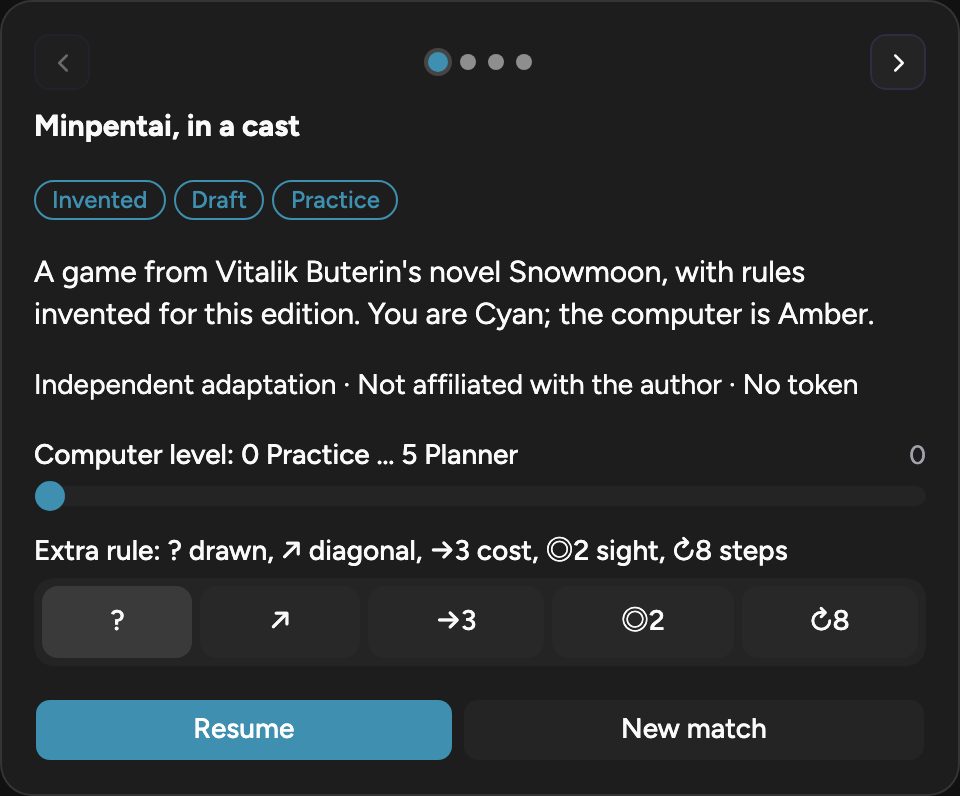
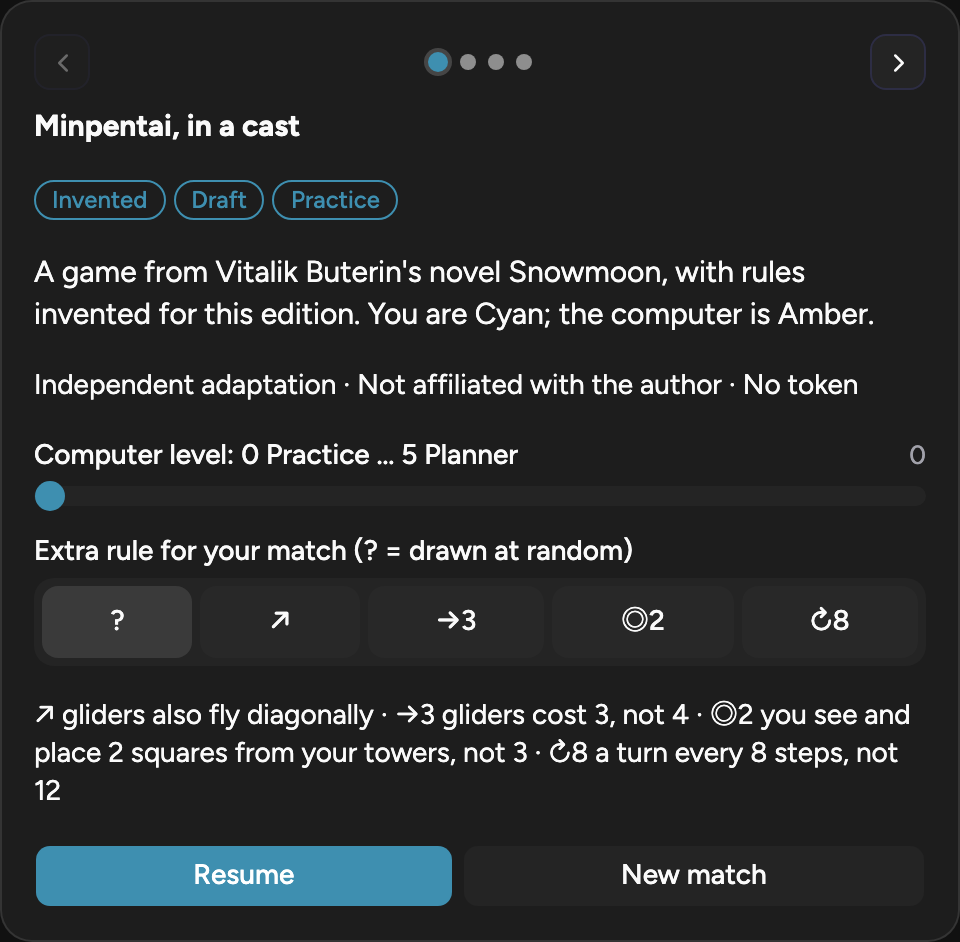
Minpentai snap: a key under the extra-rule picker says what each option does; clearer label (owner's phone test, 2026-10-22)

diff --git a/src/lib/minpentai/snap/pages.ts b/src/lib/minpentai/snap/pages.ts
@@ -31,6 +31,7 @@ export { LEVELS };
  * 8 characters in all. `?` is the drawn rule. Its label spells them out; the turn screen then names
  * the rule in full. */
 export const RULE_PICKS: [string, RuleId | ''][] = [['?', ''], ['↗', 'diag'], ['→3', 'cost3'], ['◎2', 'sight2'], ['↻8', 'every8']];
+const RULE_KEY = '↗ gliders also fly diagonally · →3 gliders cost 3, not 4 · ◎2 you see 2 squares around your towers, not 3 · ↻8 a turn every 8 steps, not 12';
 
 /** Where the snap is served, and query parameters every link must keep (a preview's bypass). */
 export interface Here { base: string; keep: [string, string][] }
@@ -131,7 +132,12 @@ export function intro(h: Here, ver: string, resume: 'yes' | 'no' | 'maybe' = 'ma
   els.level = { type: 'slider', props: { name: 'lvl', min: 0, max: 5, step: 1, defaultValue: 0, showValue: true, label: 'Computer level: 0 Practice … 5 Planner' } };
   // The extra rule (owner, 2026-10-22): drawn, or one of Play's four. A version that fixes one has no picker.
   const picker = !v?.rule;
-  if (picker) els.rule = { type: 'toggle_group', props: { name: 'rule', label: 'Extra rule: ? drawn, ↗ diagonal, →3 cost, ◎2 sight, ↻8 steps', options: RULE_PICKS.map(([g]) => g), defaultValue: '?' } };
+  // A snap can't explain an option when it is tapped, so a key under the picker says what each does
+  // (owner's phone test, 2026-10-22: "it wasn't clear what that bottom area was").
+  if (picker) {
+    els.rule = { type: 'toggle_group', props: { name: 'rule', label: 'Extra rule for your match (? = drawn at random)', options: RULE_PICKS.map(([g]) => g), defaultValue: '?' } };
+    els['rule-key'] = text(RULE_KEY, { size: 'sm' });
+  }
   if (resume === 'yes') {
     els.resume = button('Resume', submit(h, 'resume', null, q), true);
     els.start = button('New match', submit(h, 'start', null, q));
@@ -141,7 +147,7 @@ export function intro(h: Here, ver: string, resume: 'yes' | 'no' | 'maybe' = 'ma
   }
   const acts = resume === 'yes' ? ['resume', 'start'] : resume === 'maybe' ? ['start', 'resume'] : ['start'];
   if (acts.length > 1) els.acts = { type: 'stack', props: { direction: 'horizontal' }, children: acts };
-  els.page = { type: 'stack', props: {}, children: ['pager', 'level', ...(picker ? ['rule'] : []), acts.length > 1 ? 'acts' : 'start'] };
+  els.page = { type: 'stack', props: {}, children: ['pager', 'level', ...(picker ? ['rule', 'rule-key'] : []), acts.length > 1 ? 'acts' : 'start'] };
   return page(els);
 }
 

diff --git a/scripts/test-minpentai-snap.ts b/scripts/test-minpentai-snap.ts
@@ -419,6 +419,10 @@ async function main() {
     assert.ok((pick.props!.options as string[]).join('').length <= 8, 'five options stay in one row (8 characters at most)');
     assert.ok(String(pick.props!.label).length <= 60);
     assert.ok(!intro(H, 'fast-fog').ui.elements.rule, 'a version with a fixed rule has no picker');
+    // Every option is explained on the page itself.
+    const key = String(first.ui.elements['rule-key'].props!.content);
+    for (const g of ['↗', '→3', '◎2', '↻8']) assert.ok(key.includes(g + ' '), `the key explains ${g}`);
+    assert.match(String(pick.props!.label), /\? = drawn at random/);
     const want: Record<string, string> = { '↗': 'diag', '→3': 'cost3', '◎2': 'sight2', '↻8': 'every8' };
     for (const [g, rule] of Object.entries(want)) {
       const st = tapState(act(H, 'start', null, 9, { rule: g, lvl: 2 }, { ver: '' }).page);
